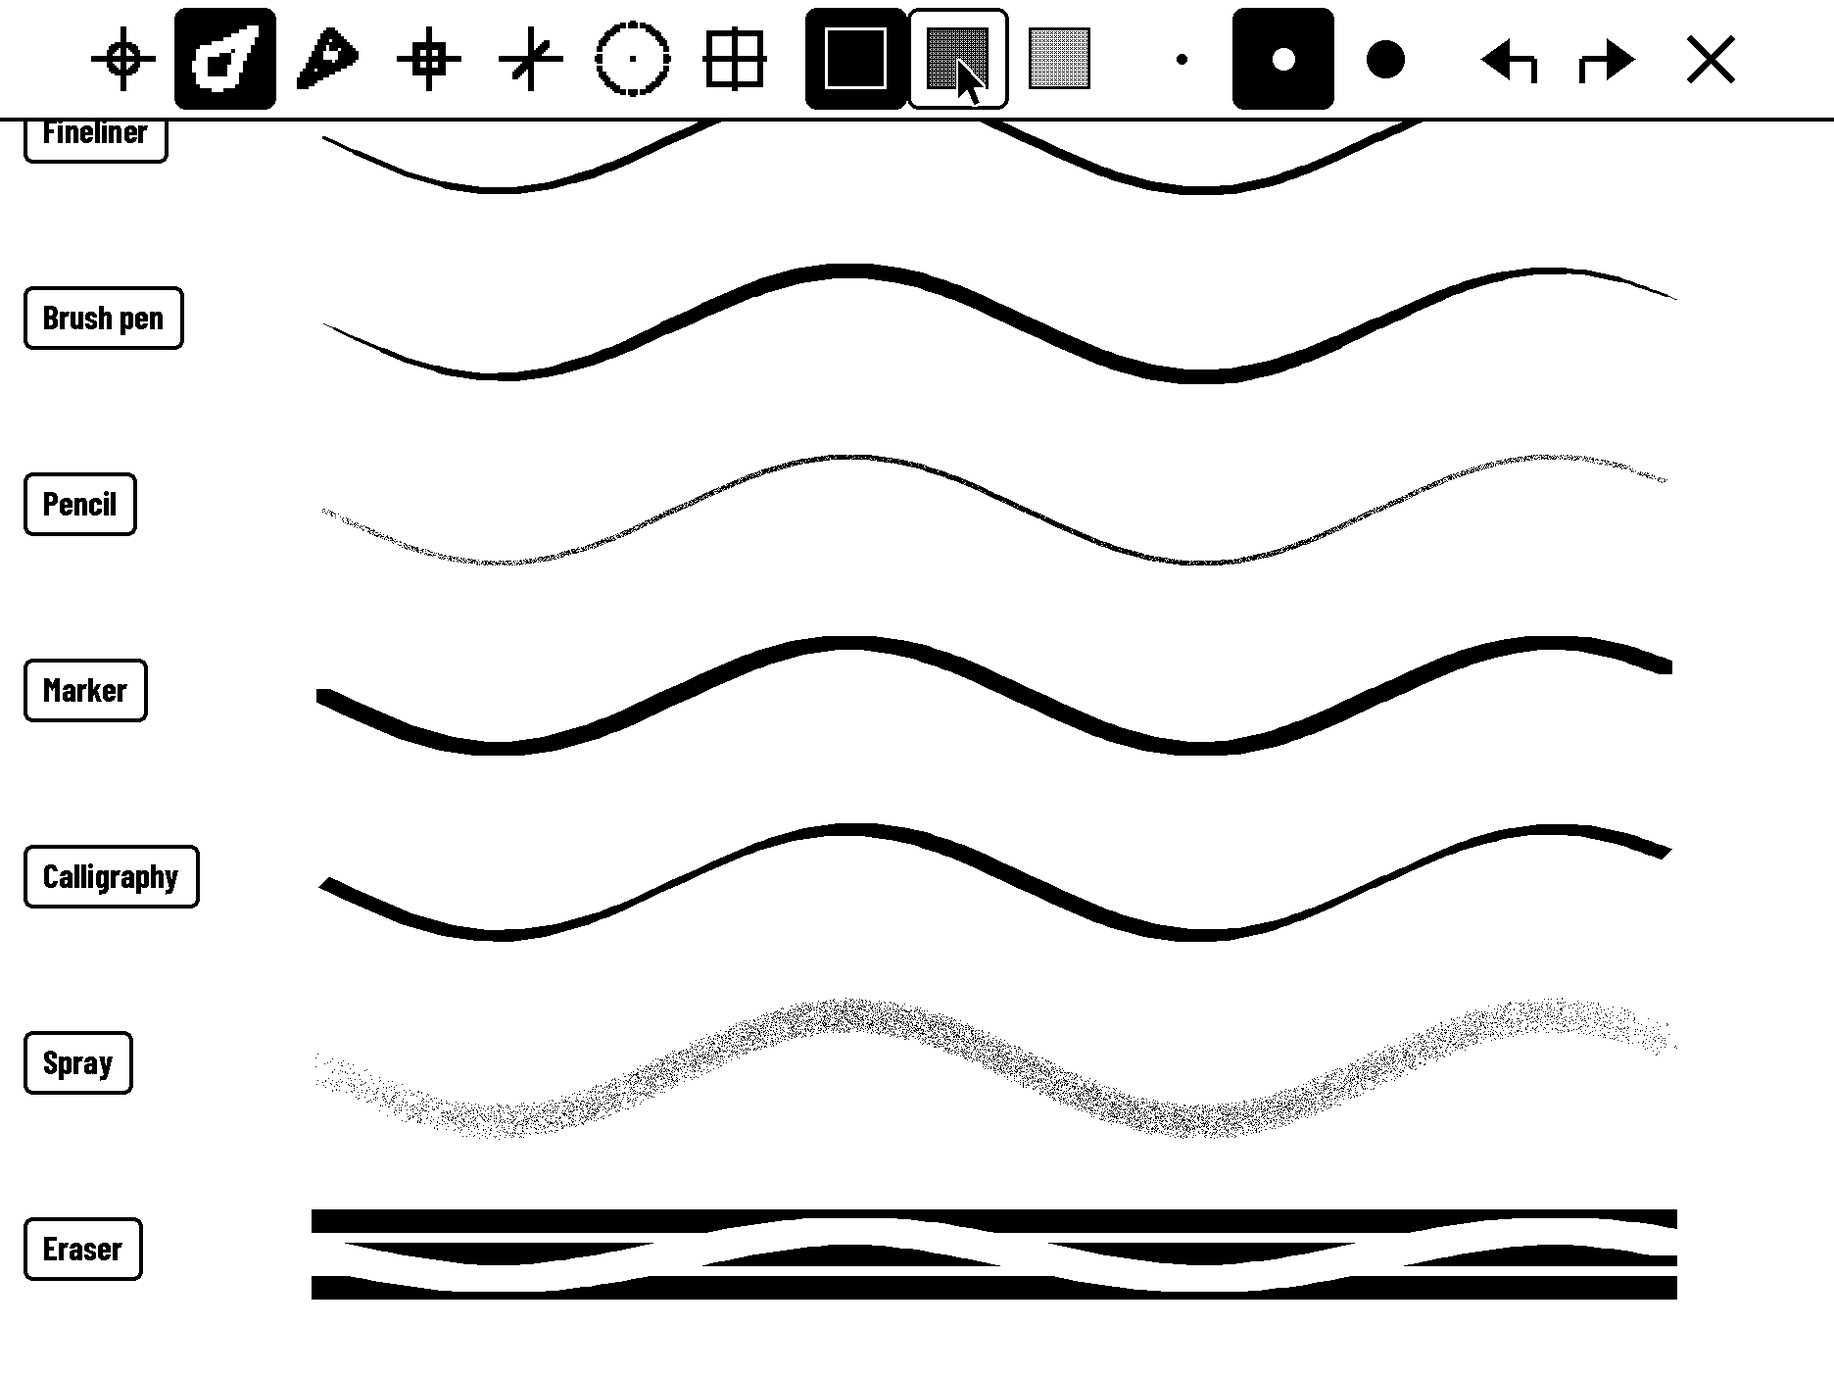
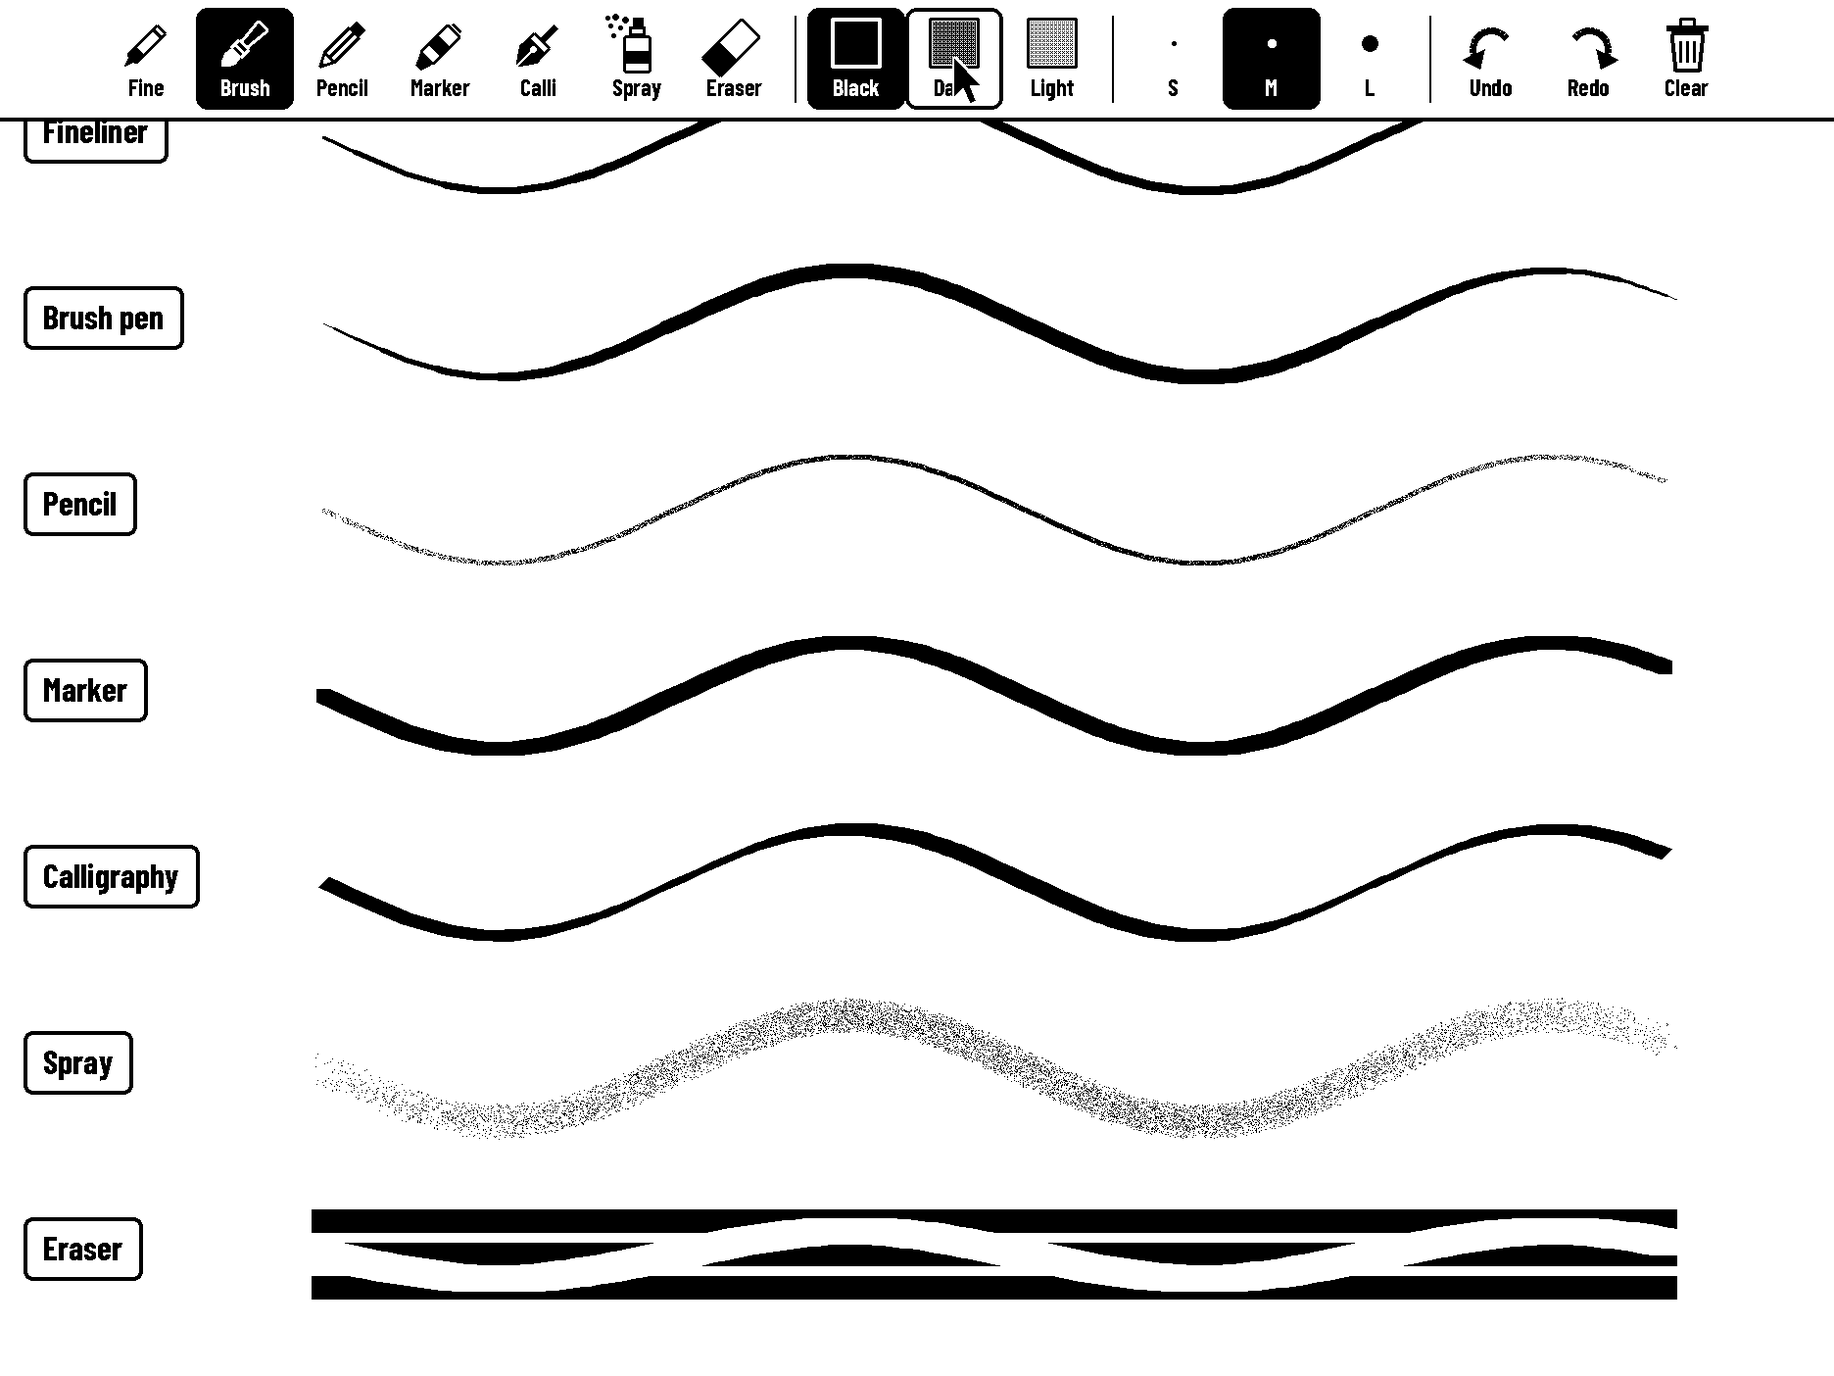
Sketch: clear toolbar, tool glyphs with labels, bordered shade swatches, real-size dots, group dividers
Changed assertions: layout test uses the item height (ch) for the centre and checks glyph-sized cells; item box uses ch.

Changed region(s): [[0.2788, 0.0, 0.6197, 0.0919], [0.6506, 0.0, 0.9605, 0.0919], [0.031, 0.0, 0.2479, 0.0919]]

diff --git a/src/toolbar.c b/src/toolbar.c
@@ -1,21 +1,28 @@
 /* SPDX-License-Identifier: MIT */
 #include "toolbar.h"
 #include "fmath.h"
+#include "font.h"
+#include "penmap.h"
+#include "tbicons.h"
 
 #define TB_PAD 8
 #define TB_MARGIN 16
-#define TB_GAP 20
+#define TB_GAP 24
 #define TB_LINE 4
+#define TB_CH 104 /* glyph 64 + label */
 enum { TB_BLK = GFX_BLACK, TB_WHT = GFX_WHITE };
+
+static const char *const tb_label[TI_N] = { "Fine", "Brush", "Pencil", "Marker", "Calli", "Spray", "Eraser", "Black", "Dark", "Light", "S", "M", "L", "Undo", "Redo", "Clear" };
 
 void tb_layout(tb_layout_t *L, int orient, int sw, int sh)
 {
     int cell = (sw - 2 * TB_MARGIN - 3 * TB_GAP) / TI_N;
-    if (cell > 104) cell = 104;
+    if (cell > 100) cell = 100;
     L->cell = cell;
-    int total = cell * TI_N + 3 * TB_GAP, x = (sw - total) / 2, h = cell + 2 * TB_PAD + TB_LINE;
+    L->ch = TB_CH;
+    int total = cell * TI_N + 3 * TB_GAP, x = (sw - total) / 2, h = TB_CH + 2 * TB_PAD + TB_LINE;
     for (int i = 0; i < TI_N; i++) {
-        if (i == TI_SHADE || i == TI_SIZE || i == TI_UNDO) x += TB_GAP;
+        if (i == TI_SHADE || i == TI_SIZE || i == TI_UNDO) L->gap_x[i == TI_SHADE ? 0 : i == TI_SIZE ? 1 : 2] = x + TB_GAP / 2, x += TB_GAP;
         L->cx[i] = x;
         x += cell;
     }
@@ -29,57 +36,33 @@ int tb_in(const tb_layout_t *L, int x, int y) { return x >= L->x0 && x <= L->x1 
 
 int tb_hit(const tb_layout_t *L, int x, int y)
 {
-    if (y < L->cy || y >= L->cy + L->cell) return -1;
+    if (y < L->cy || y >= L->cy + L->ch) return -1;
     for (int i = 0; i < TI_N; i++)
         if (x >= L->cx[i] && x < L->cx[i] + L->cell) return i;
     return -1;
 }
 
-static void shape(gfx_t *g, const tb_layout_t *L, int brush, int x, int y, int c)
+/* The pattern as it will be inked (black dots on paper), in a bordered swatch; picked: a white border on the black cell */
+static void tb_swatch(gfx_t *g, int shade, int x, int y, int sel)
 {
-    int r = brush_cursor_r(brush, 1), x0 = r, x1 = -r, y0 = r, y1 = -r;
-    for (int dy = -r; dy <= r; dy++)
-        for (int dx = -r; dx <= r; dx++)
-            if (brush_cursor_px(brush, 1, dx, dy)) {
-                if (dx < x0) x0 = dx;
-                if (dx > x1) x1 = dx;
-                if (dy < y0) y0 = dy;
-                if (dy > y1) y1 = dy;
-            }
-    int dim = (x1 - x0 > y1 - y0 ? x1 - x0 : y1 - y0) + 1, sc = L->cell * 70 / 100 / dim;
-    if (sc < 2) sc = 2;
-    if (sc > 4) sc = 4;
-    int ox = x + L->cell / 2 - (x0 + x1 + 1) * sc / 2, oy = y + L->cell / 2 - (y0 + y1 + 1) * sc / 2;
-    for (int dy = y0; dy <= y1; dy++)
-        for (int dx = x0; dx <= x1; dx++)
-            if (brush_cursor_px(brush, 1, dx, dy))
-                gfx_fill_rect(g, (float)(ox + dx * sc), (float)(oy + dy * sc), (float)(ox + dx * sc + sc - 1), (float)(oy + dy * sc + sc - 1), c);
-}
-
-/* The pattern as it will be inked (black dots on paper), in a frame; picked: the frame is white on the black cell */
-static void swatch(gfx_t *g, const tb_layout_t *L, int shade, int x, int y, int sel)
-{
-    int q = L->cell * 55 / 100, sx = x + (L->cell - q) / 2, sy = y + (L->cell - q) / 2;
-    gfx_rrect(g, sx - 3, sy - 3, sx + q + 2, sy + q + 2, 0, 3, TB_WHT, sel ? TB_WHT : TB_BLK);
+    int q = 44, sx = x + (TBI_SIZE - q) / 2, sy = y + (TBI_SIZE - q) / 2;
+    gfx_rrect(g, (float)(sx - 4), (float)(sy - 4), (float)(sx + q + 3), (float)(sy + q + 3), 3, 3, TB_WHT, sel ? TB_WHT : TB_BLK);
     for (int py = 0; py < q; py++)
         for (int px = 0; px < q; px++) gfx_px(g, sx + px, sy + py, cv_shade_black(shade, sx + px, sy + py) ? TB_BLK : TB_WHT);
 }
 
-static void arrow(gfx_t *g, const tb_layout_t *L, int x, int y, int dir, int c)
+/* The pen's real width at full pressure for the size, as a dot */
+static void tb_dot(gfx_t *g, int size, int x, int y, int c)
 {
-    float m = (float)L->cell / 2, cx = (float)x + m, cy = (float)y + m, s = (float)L->cell * 0.26f;
-    float tip = cx + dir * s, back = cx - dir * s * 0.1f;
-    float p[6] = { tip, cy, back, cy - s * 0.8f, back, cy + s * 0.8f };
-    gfx_poly(g, p, 3, c);
-    gfx_line(g, back, cy, cx - dir * s, cy, 6, c);
-    gfx_line(g, cx - dir * s, cy, cx - dir * s, cy + s * 0.9f, 6, c);
+    int d = pen_max_d(size), mx = x + TBI_SIZE / 2, my = y + TBI_SIZE / 2;
+    gfx_ellipse(g, (float)(mx - d / 2), (float)(my - d / 2), (float)(mx + d / 2), (float)(my + d / 2), 0, c, c);
 }
 
-static void cross(gfx_t *g, const tb_layout_t *L, int x, int y, int c)
+static void tb_caption(gfx_t *g, const tb_layout_t *L, int i, int x, int y, int c)
 {
-    float m = (float)L->cell / 2, cx = (float)x + m, cy = (float)y + m, s = (float)L->cell * 0.22f;
-    gfx_line(g, cx - s, cy - s, cx + s, cy + s, 7, c);
-    gfx_line(g, cx - s, cy + s, cx + s, cy - s, 7, c);
+    const font_face_t *f = font_get(FONT_BOLD, 24);
+    int w = (int)((font_width64(f, tb_label[i], 0) + 32) >> 6);
+    gfx_text(g, f, (int32_t)(x + (L->cell - w) / 2) * 64, y + TBI_SIZE + 26, tb_label[i], 0, c);
 }
 
 void tb_draw(gfx_t *g, const tb_layout_t *L, const bstyle_t *cur, int hot)
@@ -88,27 +71,27 @@ void tb_draw(gfx_t *g, const tb_layout_t *L, const bstyle_t *cur, int hot)
     gfx_fill_rect(g, (float)L->x0, (float)L->y0, (float)L->x1, (float)L->y1, TB_WHT);
     int ly = L->top ? L->y1 - TB_LINE + 1 : L->y0;
     gfx_fill_rect(g, (float)L->x0, (float)ly, (float)L->x1, (float)(ly + TB_LINE - 1), TB_BLK);
+    for (int k = 0; k < 3; k++) /* a thin divider between the groups */
+        gfx_fill_rect(g, (float)(L->gap_x[k] - 1), (float)(L->cy + 8), (float)L->gap_x[k], (float)(L->cy + L->ch - 8), TB_BLK);
     for (int i = 0; i < TI_N; i++) {
-        int x = L->cx[i], y = L->cy, sel = 0;
+        int x = L->cx[i], y = L->cy, sel = 0, gx = x + (L->cell - TBI_SIZE) / 2, gy = y + 4;
         if (i < TI_SHADE) sel = cur->brush == i;
         else if (i < TI_SIZE) sel = cur->shade == i - TI_SHADE;
         else if (i < TI_UNDO) sel = cur->size == i - TI_SIZE;
-        if (sel) gfx_rrect(g, (float)x, (float)y, (float)(x + L->cell - 1), (float)(y + L->cell - 1), 12, 0, TB_BLK, TB_BLK);
+        int x1 = x + L->cell - 1, y1 = y + L->ch - 1;
+        if (sel) gfx_rrect(g, (float)x, (float)y, (float)x1, (float)y1, 12, 0, TB_BLK, TB_BLK);
         if (hot == i) { /* the pen is over it: a frame (on a picked item an inset white one) */
-            if (sel) gfx_rrect(g, (float)(x + 6), (float)(y + 6), (float)(x + L->cell - 7), (float)(y + L->cell - 7), 8, 3, TB_BLK, TB_WHT);
-            else gfx_rrect(g, (float)x, (float)y, (float)(x + L->cell - 1), (float)(y + L->cell - 1), 12, 4, TB_WHT, TB_BLK);
+            if (sel) gfx_rrect(g, (float)(x + 5), (float)(y + 5), (float)(x1 - 5), (float)(y1 - 5), 8, 3, TB_BLK, TB_WHT);
+            else gfx_rrect(g, (float)x, (float)y, (float)x1, (float)y1, 12, 4, TB_WHT, TB_BLK);
         }
-        int c = sel ? TB_WHT : TB_BLK;
-        if (i < TI_SHADE) shape(g, L, i, x, y, c);
-        else if (i < TI_SIZE) swatch(g, L, i - TI_SHADE, x, y, sel);
-        else if (i < TI_UNDO) {
-            static const int dia[3] = { 10, 22, 38 };
-            int d = dia[i - TI_SIZE] * L->cell / 104, mx = x + L->cell / 2, my = y + L->cell / 2;
-            if (d < 4) d = 4;
-            gfx_ellipse(g, (float)(mx - d / 2), (float)(my - d / 2), (float)(mx + d / 2), (float)(my + d / 2), 0, c, c);
-        } else if (i == TI_UNDO) arrow(g, L, x, y, -1, c);
-        else if (i == TI_REDO) arrow(g, L, x, y, 1, c);
-        else cross(g, L, x, y, c);
+        int c = sel ? TB_WHT : TB_BLK, bg = sel ? TB_BLK : TB_WHT;
+        if (i < TI_SHADE) tbi_brush(g, i, gx, gy, c, bg);
+        else if (i < TI_SIZE) tb_swatch(g, i - TI_SHADE, gx, gy, sel);
+        else if (i < TI_UNDO) tb_dot(g, i - TI_SIZE, gx, gy, c);
+        else if (i == TI_UNDO) tbi_undo(g, gx, gy, c, bg);
+        else if (i == TI_REDO) tbi_redo(g, gx, gy, c, bg);
+        else tbi_clear(g, gx, gy, c, bg);
+        tb_caption(g, L, i, x, y, c);
     }
     gfx_noclip(g);
 }

diff --git a/src/tbicons.c b/src/tbicons.c
@@ -1,0 +1,159 @@
+/* SPDX-License-Identifier: MIT */
+#include "tbicons.h"
+#include "brush.h"
+#include "fmath.h"
+
+/* A tool lies on the 45 degree diagonal, tip at the lower left: a point is (u along the tool from the tip, v across) */
+typedef struct {
+    gfx_t *g;
+    float tx, ty;
+    int ink, bg;
+} tbi_tool_t;
+
+static void tbi_tp(const tbi_tool_t *t, float u, float v, float *x, float *y)
+{
+    const float k = 0.70711f;
+    *x = t->tx + (u + v) * k;
+    *y = t->ty + (v - u) * k;
+}
+
+/* A closed shape from (u, v) pairs: filled with `fill` and outlined 3 px with ink */
+static void tbi_shape(const tbi_tool_t *t, const float *uv, int n, int fill, int outline)
+{
+    float p[24];
+    for (int i = 0; i < n; i++) tbi_tp(t, uv[2 * i], uv[2 * i + 1], &p[2 * i], &p[2 * i + 1]);
+    gfx_poly(t->g, p, n, fill);
+    if (outline) gfx_poly_outline(t->g, p, n, 3, t->ink);
+}
+
+static void tbi_bar(const tbi_tool_t *t, float u0, float u1, float v, int w, int c)
+{
+    float ax, ay, bx, by;
+    tbi_tp(t, u0, v, &ax, &ay);
+    tbi_tp(t, u1, v, &bx, &by);
+    gfx_line(t->g, ax, ay, bx, by, w, c);
+}
+
+static void tbi_across(const tbi_tool_t *t, float u, float v0, float v1, int w, int c)
+{
+    float ax, ay, bx, by;
+    tbi_tp(t, u, v0, &ax, &ay);
+    tbi_tp(t, u, v1, &bx, &by);
+    gfx_line(t->g, ax, ay, bx, by, w, c);
+}
+
+static void tbi_fineliner(const tbi_tool_t *t)
+{
+    const float tip[] = { 0, 0, 12, -4, 12, 4 }, body[] = { 12, -6, 54, -6, 54, 6, 12, 6 }, grip[] = { 12, -6, 24, -6, 24, 6, 12, 6 };
+    tbi_shape(t, body, 4, t->bg, 1);
+    tbi_shape(t, grip, 4, t->ink, 0);
+    tbi_shape(t, tip, 3, t->ink, 0);
+    tbi_across(t, 48, -6, 6, 3, t->ink);
+}
+
+static void tbi_brushpen(const tbi_tool_t *t)
+{
+    const float bristle[] = { 0, 0, 5, -5, 12, -8, 20, -7, 20, 7, 12, 8, 5, 5 }, ferrule[] = { 20, -7, 32, -7, 32, 7, 20, 7 },
+        handle[] = { 32, -4, 60, -7, 60, 7, 32, 4 };
+    tbi_shape(t, handle, 4, t->bg, 1);
+    tbi_shape(t, ferrule, 4, t->bg, 1);
+    tbi_across(t, 26, -7, 7, 3, t->ink);
+    tbi_shape(t, bristle, 7, t->ink, 0);
+}
+
+static void tbi_pencil(const tbi_tool_t *t)
+{
+    const float wood[] = { 0, 0, 14, -7, 14, 7 }, lead[] = { 0, 0, 5, -2.6f, 5, 2.6f }, body[] = { 14, -7, 50, -7, 50, 7, 14, 7 },
+        rub[] = { 50, -7, 60, -7, 60, 7, 50, 7 };
+    tbi_shape(t, body, 4, t->bg, 1);
+    tbi_shape(t, wood, 3, t->bg, 1);
+    tbi_shape(t, lead, 3, t->ink, 0);
+    tbi_bar(t, 14, 50, 0, 3, t->ink);
+    tbi_shape(t, rub, 4, t->ink, 0);
+}
+
+static void tbi_marker(const tbi_tool_t *t)
+{
+    const float nib[] = { 0, -3, 0, 5, 13, 9, 13, -9 }, body[] = { 13, -9, 52, -9, 52, 9, 13, 9 }, label[] = { 24, -9, 38, -9, 38, 9, 24, 9 };
+    tbi_shape(t, body, 4, t->bg, 1);
+    tbi_shape(t, label, 4, t->ink, 0);
+    tbi_shape(t, nib, 4, t->ink, 0);
+    tbi_across(t, 56, -6, 6, 3, t->ink);
+}
+
+static void tbi_nib(const tbi_tool_t *t)
+{
+    const float blade[] = { 0, 0, 8, -6, 18, -13, 30, -12, 30, 12, 18, 13, 8, 6 }, collar[] = { 30, -11, 38, -11, 38, 11, 30, 11 };
+    tbi_shape(t, blade, 7, t->ink, 0);
+    tbi_bar(t, 0, 22, 0, 2, t->bg); /* the slit */
+    float hx, hy;
+    tbi_tp(t, 25, 0, &hx, &hy);
+    gfx_ellipse(t->g, hx - 3, hy - 3, hx + 3, hy + 3, 0, t->bg, t->bg); /* the breather hole */
+    tbi_shape(t, collar, 4, t->bg, 1);
+    tbi_bar(t, 38, 58, 0, 7, t->ink);
+}
+
+static void tbi_spray(const tbi_tool_t *t, int x, int y)
+{
+    gfx_t *g = t->g;
+    gfx_rrect(g, (float)(x + 18), (float)(y + 24), (float)(x + 46), (float)(y + 62), 4, 3, t->bg, t->ink);
+    gfx_fill_rect(g, (float)(x + 18), (float)(y + 40), (float)(x + 46), (float)(y + 52), t->ink);
+    gfx_rrect(g, (float)(x + 24), (float)(y + 15), (float)(x + 40), (float)(y + 24), 0, 3, t->bg, t->ink);
+    gfx_fill_rect(g, (float)(x + 28), (float)(y + 6), (float)(x + 38), (float)(y + 15), t->ink);
+    static const int dot[6][3] = { { 20, 8, 3 }, { 10, 5, 3 }, { 15, 16, 2 }, { 5, 14, 2 }, { 8, 24, 2 }, { 2, 6, 2 } };
+    for (int i = 0; i < 6; i++)
+        gfx_ellipse(g, (float)(x + dot[i][0] - dot[i][2]), (float)(y + dot[i][1] - dot[i][2]), (float)(x + dot[i][0] + dot[i][2]),
+            (float)(y + dot[i][1] + dot[i][2]), 0, t->ink, t->ink);
+}
+
+static void tbi_eraser(const tbi_tool_t *t)
+{
+    const float whole[] = { 0, -13, 56, -13, 56, 13, 0, 13 }, worn[] = { 0, -13, 24, -13, 24, 13, 0, 13 };
+    tbi_shape(t, whole, 4, t->bg, 1);
+    tbi_shape(t, worn, 4, t->ink, 0);
+}
+
+void tbi_brush(gfx_t *g, int brush, int x, int y, int ink, int bg)
+{
+    tbi_tool_t t = { g, (float)x + 8, (float)y + 56, ink, bg };
+    switch (brush) {
+    case BR_FINELINER: tbi_fineliner(&t); break;
+    case BR_BRUSHPEN: tbi_brushpen(&t); break;
+    case BR_PENCIL: tbi_pencil(&t); break;
+    case BR_MARKER: tbi_marker(&t); break;
+    case BR_CALLIGRAPHY: tbi_nib(&t); break;
+    case BR_SPRAY: tbi_spray(&t, x, y); break;
+    default: tbi_eraser(&t); break;
+    }
+}
+
+/* A curved arrow: an arc over the top with the head at its end; mx 1 undo (head on the left), -1 redo (mirrored) */
+static void tbi_curved(gfx_t *g, int x, int y, int mx, int ink)
+{
+    const float cx = (float)x + 32, cy = (float)y + 38, r = 19, m = (float)mx;
+    const float a0 = 35, a1 = 205;
+    float px = 0, py = 0;
+    for (int i = 0; i <= 12; i++) {
+        float th = (a0 + (a1 - a0) * (float)i / 12) * FM_PI / 180;
+        float qx = cx + m * r * fm_cos(th), qy = cy - r * fm_sin(th);
+        if (i) gfx_line(g, px, py, qx, qy, 7, ink);
+        px = qx, py = qy;
+    }
+    float th = a1 * FM_PI / 180, dx = m * -fm_sin(th), dy = -fm_cos(th); /* direction of travel at the end */
+    float p[6] = { px + dx * 14, py + dy * 14, px - dy * 13 - dx * 3, py + dx * 13 - dy * 3, px + dy * 13 - dx * 3, py - dx * 13 - dy * 3 };
+    gfx_poly(g, p, 3, ink);
+}
+
+void tbi_undo(gfx_t *g, int x, int y, int ink, int bg) { (void)bg, tbi_curved(g, x, y, 1, ink); }
+void tbi_redo(gfx_t *g, int x, int y, int ink, int bg) { (void)bg, tbi_curved(g, x, y, -1, ink); }
+
+void tbi_clear(gfx_t *g, int x, int y, int ink, int bg)
+{
+    float X = (float)x, Y = (float)y;
+    gfx_fill_rect(g, X + 11, Y + 14, X + 53, Y + 19, ink); /* the lid */
+    gfx_rrect(g, X + 24, Y + 6, X + 40, Y + 16, 2, 3, bg, ink); /* its handle */
+    float body[8] = { X + 16, Y + 22, X + 48, Y + 22, X + 44, Y + 60, X + 20, Y + 60 };
+    gfx_poly(g, body, 4, bg);
+    gfx_poly_outline(g, body, 4, 4, ink);
+    for (int i = 0; i < 3; i++) gfx_line(g, X + 25 + (float)i * 7, Y + 30, X + 25 + (float)i * 7, Y + 52, 3, ink);
+}

diff --git a/test/test_toolbar.c b/test/test_toolbar.c
@@ -195,12 +195,12 @@ static void test_layout_all_positions(void)
         tb_layout_t L;
         int sw = o == APP_ORIENT_BAR_LEFT || o == APP_ORIENT_BAR_RIGHT ? TH : TW, sh = o == APP_ORIENT_BAR_LEFT || o == APP_ORIENT_BAR_RIGHT ? TW : TH;
         tb_layout(&L, o, sw, sh);
-        CHECK(L.cell >= 70 && L.x0 == 0 && L.x1 == sw - 1);
+        CHECK(L.cell >= 70 && L.ch >= 96 && L.cell >= 64 && L.x0 == 0 && L.x1 == sw - 1);
         CHECK(L.top == (o != APP_ORIENT_BAR_TOP)); /* away from the touch bar */
         CHECK(L.top ? L.y0 == 0 : L.y1 == sh - 1);
         for (int i = 0; i < TI_N; i++) {
             CHECK(L.cx[i] >= 0 && L.cx[i] + L.cell <= sw && (i == 0 || L.cx[i] >= L.cx[i - 1] + L.cell)); /* inside, in order, no overlap */
-            int cx = L.cx[i] + L.cell / 2, cy = L.cy + L.cell / 2, fx, fy, ux, uy;
+            int cx = L.cx[i] + L.cell / 2, cy = L.cy + L.ch / 2, fx, fy, ux, uy;
             CHECK(tb_in(&L, cx, cy) && tb_hit(&L, cx, cy) == i);
             /* through the panel and back: what a pen on the panel hits */
             app_orient_to_fb(o, TW, TH, cx, cy, &fx, &fy);
@@ -330,7 +330,7 @@ static int rect_hits(const rect_t *q, const box_t *b)
 }
 static void item_fb_box(const rig_t *r, int i, box_t *b)
 {
-    *b = (box_t){ r->s.tb.cx[i], r->s.tb.cy, r->s.tb.cx[i] + r->s.tb.cell - 1, r->s.tb.cy + r->s.tb.cell - 1 };
+    *b = (box_t){ r->s.tb.cx[i], r->s.tb.cy, r->s.tb.cx[i] + r->s.tb.cell - 1, r->s.tb.cy + r->s.tb.ch - 1 };
 }
 
 static void test_pointer_over_the_strip(void)

diff --git a/src/toolbar.h b/src/toolbar.h
@@ -1,5 +1,5 @@
 /* The toolbar: a strip along one edge of the screen (the top, or the bottom when the touch bar is on top) with the
-   brushes, the three shades, the three sizes, undo, redo and clear. Layout and hit test are pure (user frame, tested
+   brushes, the three shades, the three sizes, undo, redo and clear, each a glyph with a label. Layout and hit test are pure (user frame, tested
    in every position); the drawing goes through gfx.h. SPDX-License-Identifier: MIT */
 #ifndef TOOLBAR_H
 #define TOOLBAR_H
@@ -10,8 +10,9 @@ enum { TI_BRUSH = 0, TI_SHADE = BR_N, TI_SIZE = BR_N + SH_N, TI_UNDO = BR_N + SH
 
 typedef struct {
     int x0, y0, x1, y1; /* the strip, user frame, inclusive */
-    int cell;           /* an item is cell x cell */
+    int cell, ch;       /* an item is cell wide and ch high: a 64 px glyph with its short label under it */
     int cx[TI_N], cy;   /* item left edges, common top edge */
+    int gap_x[3];       /* centres of the dividers between the groups (brushes | shades | sizes | actions) */
     int top;            /* the strip is along the top edge (else the bottom) */
 } tb_layout_t;
 

diff --git a/src/tbicons.h b/src/tbicons.h
@@ -1,0 +1,14 @@
+/* The toolbar's glyphs: each brush as the tool drawing apps show for it (fine-tip pen, paintbrush, pencil, chisel
+   marker, fountain-pen nib, spray can, block eraser), undo and redo as curved arrows, clear as a trash can. All
+   in a 64 x 64 box at (x, y), bold 1-bit line art: `ink` for the strokes, `bg` for what the box is filled with.
+   SPDX-License-Identifier: MIT */
+#ifndef TBICONS_H
+#define TBICONS_H
+#include "gfx.h"
+
+#define TBI_SIZE 64
+void tbi_brush(gfx_t *g, int brush, int x, int y, int ink, int bg);
+void tbi_undo(gfx_t *g, int x, int y, int ink, int bg);
+void tbi_redo(gfx_t *g, int x, int y, int ink, int bg);
+void tbi_clear(gfx_t *g, int x, int y, int ink, int bg);
+#endif

diff --git a/src/sketch.c b/src/sketch.c
@@ -85,7 +85,7 @@ static void tb_item_box(sketch_t *s, int i, box_t *b)
 {
     gfx_t g;
     mkg(s, &g);
-    ui_fb_box(&g, s->tb.cx[i], s->tb.cy, s->tb.cx[i] + s->tb.cell - 1, s->tb.cy + s->tb.cell - 1, b);
+    ui_fb_box(&g, s->tb.cx[i], s->tb.cy, s->tb.cx[i] + s->tb.cell - 1, s->tb.cy + s->tb.ch - 1, b);
     box_clip(b, s->fb.w, s->fb.h);
 }
 

diff --git a/apps/trmnl-sketch/unity.c b/apps/trmnl-sketch/unity.c
@@ -5,6 +5,7 @@
 #include "../../gen/fonts_gen.c"
 #include "../../src/canvas.c"
 #include "../../src/brush.c"
+#include "../../src/tbicons.c"
 #include "../../src/toolbar.c"
 #include "../../src/penmap.c"
 #include "../../src/hist.c"
